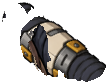
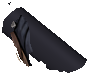
29 스카이 팔로메: 시트 2(네온 팔로메 것이었음, DHL 08:09) 윗팔 조각 뺌 — 스카이 시트 받으면 다시
Claude-Session: https://claude.ai/code/session_011WxNHak8EsK79yqEoeePC7

diff --git a/assets/rig/palome-sky/rig.def.js b/assets/rig/palome-sky/rig.def.js
@@ -1,3 +1,3 @@
 // 자동 생성: rig.json을 JS로 감싼 것. 원본은 같은 폴더의 rig.json (source/build_sky29.py)
 window.MR_RIG_DEFS=window.MR_RIG_DEFS||{};
-window.MR_RIG_DEFS['palome-sky']={"name": "palome-sky", "version": "f4b1b907", "units": "rig px (원화 512 ×2)", "refOrigin": [526.0, 956.0], "refScale": 1.0, "refLift": 0, "parts": {"torso": {"src": "parts/torso.png", "pivot": [140.0, 239.0], "scale": 2.0}, "skirt": {"src": "parts/skirt.png", "pivot": [140.0, 41.0], "scale": 2.0, "mesh": {"cols": 8, "rows": 6}}, "head": {"src": "parts/head.png", "pivot": [102.0, 138.0], "scale": 2.0}, "pauldron": {"src": "parts/pauldron.png", "pivot": [93.0, 89.0], "scale": 2.0}, "armU": {"src": "parts/armU.png", "pivot": [82.0, 18.0], "scale": 2.0, "elbow": [20.0, 79.0]}, "armL": {"src": "parts/armL.png", "pivot": [19.0, 27.0], "scale": 2.0, "fist": [105.4, 61.8]}, "armF": {"src": "parts/armF.png", "pivot": [28.0, 27.0], "scale": 2.0, "elbow": [90.0, 77.0]}, "foreF": {"src": "parts/foreF.png", "pivot": [50.0, 78.0], "scale": 2.0}, "fistF": {"src": "parts/fistF.png", "pivot": [36.0, 61.0], "scale": 2.0}, "pauldronF": {"src": "parts/pauldronF.png", "pivot": [10.0, 13.0], "scale": 2.0}, "cape": {"src": "parts/cape.png", "pivot": [87.0, 27.0], "scale": 2.0, "mesh": {"cols": 6, "rows": 7}}, "weapon": {"src": "parts/weapon.png", "pivot": [97.0, 847.0], "scale": 1.0, "tip": [107.9, 4.6], "tips": [[95.9, 24.6], [135.9, 24.6]], "guard": [107.6, 755.7], "pommel": [79.4, 997.7]}, "face_happy": {"src": "parts/face_happy.png", "pivot": [102.0, 138.0], "scale": 2.0}, "face_angry": {"src": "parts/face_angry.png", "pivot": [102.0, 138.0], "scale": 2.0}, "face_focus": {"src": "parts/face_focus.png", "pivot": [102.0, 138.0], "scale": 2.0}, "face_shout": {"src": "parts/face_shout.png", "pivot": [102.0, 138.0], "scale": 2.0}, "face_effort": {"src": "parts/face_effort.png", "pivot": [102.0, 138.0], "scale": 2.0}, "face_half": {"src": "parts/face_half.png", "pivot": [102.0, 138.0], "scale": 2.0}, "face_closed": {"src": "parts/face_closed.png", "pivot": [102.0, 138.0], "scale": 2.0}, "bootStandN": {"src": "parts/bootStandN.png", "pivot": [27.0, 25.0], "scale": 2.0}, "bootStandF": {"src": "parts/bootStandF.png", "pivot": [35.0, 23.0], "scale": 2.0}, "bootNRun": {"src": "parts/bootNRun.png", "pivot": [28.6, 41.0], "scale": 2.0}, "bootFRun": {"src": "parts/bootFRun.png", "pivot": [28.6, 42.0], "scale": 2.0}, "shinP": {"src": "parts/shinP.png", "pivot": [0, 0], "scale": 1}, "gF": {"src": "parts/fistF.png", "pivot": [36.0, 61.0], "grip": [38.0, 34.6], "elbow": [36.0, 61.0], "wrist": [36.0, 61.0], "scale": 2.0, "shaftDir": [-0.9215, -0.3885], "fore": "foreFa", "foreBone": "foreFb", "foreDir": [0.2075, 0.9782]}, "foreFa": {"src": "parts/foreF.png", "pivot": [36.0, 12.0], "elbow": [50.0, 78.0], "scale": 2.0}}, "bones": [{"name": "root", "parent": null, "pos": [0, 0]}, {"name": "hip", "parent": "root", "pos": [10.0, -172.0]}, {"name": "skirt", "parent": "hip", "pos": [0.0, 0.0], "part": "skirt"}, {"name": "torso", "parent": "hip", "pos": [0.0, 0.0], "part": "torso"}, {"name": "head", "parent": "torso", "pos": [28.0, -288.0], "part": "head"}, {"name": "armF", "parent": "torso", "pos": [188.0, -260.0], "part": "armF"}, {"name": "foreF", "parent": "armF", "pos": [124.0, 100.0], "part": "foreF"}, {"name": "fistF", "parent": "foreF", "pos": [-28.0, -132.0], "part": "fistF"}, {"name": "weapon", "parent": "fistF", "pos": [4.0, -52.7], "rot": -1.1718, "part": "weapon"}, {"name": "armU", "parent": "torso", "pos": [-216.0, -294.0], "part": "armU"}, {"name": "armL", "parent": "armU", "pos": [-124.0, 122.0], "rot": 0.3, "part": "armL"}, {"name": "pauldron", "parent": "torso", "pos": [-216.0, -294.0], "part": "pauldron"}, {"name": "cape", "parent": "torso", "pos": [-300.0, -184.0], "part": "cape"}, {"name": "scarf", "parent": "torso", "pos": [28.0, -288.0]}, {"name": "pouch", "parent": "hip", "pos": [0.0, 0.0]}, {"name": "pauldronF", "parent": "torso", "pos": [188.0, -260.0], "part": "pauldronF"}, {"name": "foreFb", "parent": "torso", "pos": [284.0, -292.0]}], "legs": {"hip": [0, 76.0], "thigh": 30.1, "shin": 30.1, "thighImg": {"part": "shinP", "a": [22, 0], "b": [22, 46], "w": 0.001}, "shinImg": {"part": "shinP", "a": [22, 0], "b": [22, 46], "w": 0.001}, "boot": {"part": "bootFRun", "sole": [[-26.6, 16.0], [-9.6, 17.0], [9.4, 19.0], [28.4, 20.0], [45.4, 17.0]], "ankleRange": [-1.7, 1.7]}, "tube": {"part": "shinP", "a": [22, 0], "b": [22, 46], "k": 1.8, "runBoot": true}, "near": {"x": -172.0, "shade": 0, "thighImg": {"part": "shinP", "a": [22, 0], "b": [22, 46], "w": 0.001}, "shinImg": {"part": "shinP", "a": [22, 0], "b": [22, 46], "w": 0.001}, "runBoot": "bootNRun", "stand": {"fade": [0.12, 0.4], "boot": {"part": "bootStandN", "sole": [[-24.0, 15.0], [-11.0, 19.0], [2.0, 20.0], [32.0, 17.0], [45.0, -10.0]]}}}, "far": {"x": 124.0, "shade": 0, "thighImg": {"part": "shinP", "a": [22, 0], "b": [22, 46], "w": 0.001}, "shinImg": {"part": "shinP", "a": [22, 0], "b": [22, 46], "w": 0.001}, "runBoot": "bootFRun", "stand": {"fade": [0.12, 0.4], "boot": {"part": "bootStandF", "sole": [[-31.0, -11.0], [-16.0, 17.0], [18.0, 20.0], [34.0, 19.0], [49.0, 17.0]]}}}}, "draw": ["cape", "legFar", "legNear", "torso", "skirt", "armF", "pauldronF", "foreF", "weapon", "armU", "pauldron", "head", "fistF", "armL"], "hidden": [], "faces": {"happy": "face_happy", "angry": "face_angry", "focus": "face_focus", "shout": "face_shout", "effort": "face_effort"}, "blinkFaces": {"half": "face_half", "closed": "face_closed"}, "idleStance": {"near": -12.0, "far": 2.0}, "gait": {"stance": 0.18, "strideBase": 14, "strideK": 0.06, "hipBase": 0, "bob": 6, "lean": 0.06, "waddle": 0.02, "headBob": 3, "kneeLift": 0.2, "heelKick": 0.03, "dropCap": 12, "swingReach": 0.05, "landAng": -0.04, "angK": 0.2, "elbowRun": 0.3, "foreRun": 0.3, "armSwing": 0.08, "armBias": 0.0, "headRun": 0.06}, "hemRun": {"lift": 8, "knee": 0.5, "heel": 0.3, "reach": 0.2}, "hemLimit": {"up": 0.25, "x": 0.3}, "hemGain": 0.15, "footReach": 0.97, "follow": [{"bone": "pauldron", "src": "armU", "k": 0.3}], "skirtFollow": 0.7, "carrySwing": 0.15, "wristRange": 0.2, "dropLift": 10, "bounce": [], "metrics": {"bodyHeight": 734, "note": "rig units; 머리카락 위(y111)~발바닥(478) ×2, 칼 제외"}, "ui": {"attack": "smash", "touch": "hop"}, "gameRef": {"refOrigin": [246.5, 478.0], "refScale": 2.0, "refLift": 0, "note": "게임 그림 char_0029.png(512) = 원화(md5 같음). x = 도감 칸(fitArt 중심 251.5, index.html measureBox 와 같은 계산)에서 골반(hip x 268)이 가운데 (9 팔로메와 같은 규칙)"}, "note": "29 스카이아크 팔로메 v1(대기·달리기·한 손 내려찍기). 9 러스트 팔로메 v1.1 구조(드워프 몸, 먼 팔이 칼을 어깨에 멤, 칼날 머리 뒤) + 망토. 조각 = 원화를 부품별로 나눔(seg29.py) + 가려진 곳만 시트·inpaint 로 메움", "swordGrip": {"tipDepth": 6, "near": {"upper": "armF", "carry": "gF", "pieces": []}, "far": {"upper": "armU", "pieces": ["armL"], "sPref": 0}, "stretchMax": 1.05, "shoulderPush": 0}, "drawA": ["cape", "legFar", "legNear", "torso", "skirt", "armF", "pauldronF", "foreFb", "weapon", "armU", "pauldron", "head", "foreF", "armL"], "drawStrike": ["cape", "legFar", "legNear", "torso", "skirt", "armF", "pauldronF", "foreFb", "armU", "pauldron", "head", "weapon", "foreF", "armL"], "actions": {"smash": {"kind": "sword", "rigid": true, "orderAlways": true, "dur": 0.9, "hitAt": 0.45, "hitStop": 0.07, "cancelAt": 0.66, "w": [[0, 1]], "reach": [[0, 0]], "nPiece": [[0, "gF"]], "nUpper": [[0, "armF"]], "armIK": [[0, 1]], "ikSideK": {"N": [[0, 1]]}, "gx": [[0.0, 288.0, "io"], [0.12, 272.2, "io"], [0.28, 248.8, "io"], [0.33, 286.2, "lin"], [0.355, 347.0, "lin"], [0.37, 356.4, "lin"], [0.385, 379.8, "lin"], [0.4, 389.2, "lin"], [0.415, 410.0, "lin"], [0.43, 380.0, "lin"], [0.45, 350.2, "io"], [0.6, 369.6, "io"], [0.65, 410.0, "lin"], [0.7, 379.8, "lin"], [0.75, 347.0, "io"], [0.8, 286.2, "io"], [0.86, 288.0, "io"]], "gy": [[0.0, -344.8, "io"], [0.12, -415.4, "io"], [0.28, -500.8, "io"], [0.33, -290.8, "lin"], [0.355, -217.2, "lin"], [0.37, -174.4, "lin"], [0.385, -134.4, "lin"], [0.4, -92.2, "lin"], [0.415, -48.0, "lin"], [0.43, 8.0, "lin"], [0.45, 60.4, "io"], [0.6, 61.8, "io"], [0.65, -48.0, "lin"], [0.7, -134.4, "lin"], [0.75, -217.2, "io"], [0.8, -290.8, "io"], [0.86, -344.8, "io"]], "sa": [[0.0, -2.7426, "io"], [0.12, -2.8449, "io"], [0.28, -3.0892, "io"], [0.33, -2.5656, "lin"], [0.355, -2.0944, "lin"], [0.37, -1.8326, "lin"], [0.385, -1.5708, "lin"], [0.4, -1.309, "lin"], [0.415, -1.0472, "lin"], [0.43, -0.7854, "lin"], [0.45, 0.096, "io"], [0.6, 0.096, "io"], [0.65, -1.0472, "lin"], [0.7, -1.5708, "lin"], [0.75, -2.0944, "io"], [0.8, -2.5656, "io"], [0.86, -2.7426, "io"]], "lean": [[0.0, 0.0, "io"], [0.12, -0.0698, "io"], [0.28, -0.1571, "io"], [0.33, 0.1047, "lin"], [0.355, 0.1745, "lin"], [0.37, 0.2269, "lin"], [0.385, 0.2443, "lin"], [0.4, 0.2443, "lin"], [0.415, 0.2443, "lin"], [0.43, 0.2443, "lin"], [0.45, 0.2443, "io"], [0.6, 0.2269, "io"], [0.65, 0.2443, "lin"], [0.7, 0.2443, "lin"], [0.75, 0.1745, "io"], [0.8, 0.1047, "io"], [0.86, 0.0, "io"]], "hipY": [[0.0, 0.0, "io"], [0.12, 8.0, "io"], [0.28, 0.0, "io"], [0.33, 12.0, "lin"], [0.355, 18.0, "lin"], [0.37, 22.0, "lin"], [0.385, 24.0, "lin"], [0.4, 24.0, "lin"], [0.415, 24.0, "lin"], [0.43, 24.0, "lin"], [0.45, 24.0, "io"], [0.6, 22.0, "io"], [0.65, 24.0, "lin"], [0.7, 24.0, "lin"], [0.75, 18.0, "io"], [0.8, 12.0, "io"], [0.86, 0.0, "io"]], "head": [[0, 0], [0.28, -0.06, "io"], [0.45, 0.05, "io"], [0.6, 0.04, "io"], [0.86, 0]], "freeArm": true, "fuA": [[0, 0], [0.28, -0.12, "io"], [0.45, 0.3, "o"], [0.6, 0.26, "io"], [0.86, 0]], "flA": [[0, 0], [0.28, -0.08, "io"], [0.45, 0.18, "o"], [0.6, 0.15, "io"], [0.86, 0]], "face": [[0, "angry"], [0.12, "effort"], [0.4, "shout"], [0.62, "focus"], [0.82, null]], "order": [[0, "drawA"], [0.375, "drawStrike"], [0.72, "drawA"]]}}, "cutHold": 0.25};
+window.MR_RIG_DEFS['palome-sky']={"name": "palome-sky", "version": "487c6b08", "units": "rig px (원화 512 ×2)", "refOrigin": [526.0, 956.0], "refScale": 1.0, "refLift": 0, "parts": {"torso": {"src": "parts/torso.png", "pivot": [140.0, 239.0], "scale": 2.0}, "skirt": {"src": "parts/skirt.png", "pivot": [140.0, 41.0], "scale": 2.0, "mesh": {"cols": 8, "rows": 6}}, "head": {"src": "parts/head.png", "pivot": [102.0, 138.0], "scale": 2.0}, "pauldron": {"src": "parts/pauldron.png", "pivot": [93.0, 89.0], "scale": 2.0}, "armU": {"src": "parts/armU.png", "pivot": [81.0, 21.0], "scale": 2.0, "elbow": [19.0, 82.0]}, "armL": {"src": "parts/armL.png", "pivot": [19.0, 27.0], "scale": 2.0, "fist": [105.4, 61.8]}, "armF": {"src": "parts/armF.png", "pivot": [10.0, 18.0], "scale": 2.0, "elbow": [72.0, 68.0]}, "foreF": {"src": "parts/foreF.png", "pivot": [50.0, 78.0], "scale": 2.0}, "fistF": {"src": "parts/fistF.png", "pivot": [36.0, 61.0], "scale": 2.0}, "pauldronF": {"src": "parts/pauldronF.png", "pivot": [10.0, 13.0], "scale": 2.0}, "cape": {"src": "parts/cape.png", "pivot": [87.0, 27.0], "scale": 2.0, "mesh": {"cols": 6, "rows": 7}}, "weapon": {"src": "parts/weapon.png", "pivot": [97.0, 847.0], "scale": 1.0, "tip": [107.9, 4.6], "tips": [[95.9, 24.6], [135.9, 24.6]], "guard": [107.6, 755.7], "pommel": [79.4, 997.7]}, "face_happy": {"src": "parts/face_happy.png", "pivot": [102.0, 138.0], "scale": 2.0}, "face_angry": {"src": "parts/face_angry.png", "pivot": [102.0, 138.0], "scale": 2.0}, "face_focus": {"src": "parts/face_focus.png", "pivot": [102.0, 138.0], "scale": 2.0}, "face_shout": {"src": "parts/face_shout.png", "pivot": [102.0, 138.0], "scale": 2.0}, "face_effort": {"src": "parts/face_effort.png", "pivot": [102.0, 138.0], "scale": 2.0}, "face_half": {"src": "parts/face_half.png", "pivot": [102.0, 138.0], "scale": 2.0}, "face_closed": {"src": "parts/face_closed.png", "pivot": [102.0, 138.0], "scale": 2.0}, "bootStandN": {"src": "parts/bootStandN.png", "pivot": [27.0, 25.0], "scale": 2.0}, "bootStandF": {"src": "parts/bootStandF.png", "pivot": [35.0, 23.0], "scale": 2.0}, "bootNRun": {"src": "parts/bootNRun.png", "pivot": [28.6, 41.0], "scale": 2.0}, "bootFRun": {"src": "parts/bootFRun.png", "pivot": [28.6, 42.0], "scale": 2.0}, "shinP": {"src": "parts/shinP.png", "pivot": [0, 0], "scale": 1}, "gF": {"src": "parts/fistF.png", "pivot": [36.0, 61.0], "grip": [38.0, 34.6], "elbow": [36.0, 61.0], "wrist": [36.0, 61.0], "scale": 2.0, "shaftDir": [-0.9215, -0.3885], "fore": "foreFa", "foreBone": "foreFb", "foreDir": [0.2075, 0.9782]}, "foreFa": {"src": "parts/foreF.png", "pivot": [36.0, 12.0], "elbow": [50.0, 78.0], "scale": 2.0}}, "bones": [{"name": "root", "parent": null, "pos": [0, 0]}, {"name": "hip", "parent": "root", "pos": [10.0, -172.0]}, {"name": "skirt", "parent": "hip", "pos": [0.0, 0.0], "part": "skirt"}, {"name": "torso", "parent": "hip", "pos": [0.0, 0.0], "part": "torso"}, {"name": "head", "parent": "torso", "pos": [28.0, -288.0], "part": "head"}, {"name": "armF", "parent": "torso", "pos": [188.0, -260.0], "part": "armF"}, {"name": "foreF", "parent": "armF", "pos": [124.0, 100.0], "part": "foreF"}, {"name": "fistF", "parent": "foreF", "pos": [-28.0, -132.0], "part": "fistF"}, {"name": "weapon", "parent": "fistF", "pos": [4.0, -52.7], "rot": -1.1718, "part": "weapon"}, {"name": "armU", "parent": "torso", "pos": [-216.0, -294.0], "part": "armU"}, {"name": "armL", "parent": "armU", "pos": [-124.0, 122.0], "rot": 0.3, "part": "armL"}, {"name": "pauldron", "parent": "torso", "pos": [-216.0, -294.0], "part": "pauldron"}, {"name": "cape", "parent": "torso", "pos": [-300.0, -184.0], "part": "cape"}, {"name": "scarf", "parent": "torso", "pos": [28.0, -288.0]}, {"name": "pouch", "parent": "hip", "pos": [0.0, 0.0]}, {"name": "pauldronF", "parent": "torso", "pos": [188.0, -260.0], "part": "pauldronF"}, {"name": "foreFb", "parent": "torso", "pos": [284.0, -292.0]}], "legs": {"hip": [0, 76.0], "thigh": 30.1, "shin": 30.1, "thighImg": {"part": "shinP", "a": [22, 0], "b": [22, 46], "w": 0.001}, "shinImg": {"part": "shinP", "a": [22, 0], "b": [22, 46], "w": 0.001}, "boot": {"part": "bootFRun", "sole": [[-26.6, 16.0], [-9.6, 17.0], [9.4, 19.0], [28.4, 20.0], [45.4, 17.0]], "ankleRange": [-1.7, 1.7]}, "tube": {"part": "shinP", "a": [22, 0], "b": [22, 46], "k": 1.8, "runBoot": true}, "near": {"x": -172.0, "shade": 0, "thighImg": {"part": "shinP", "a": [22, 0], "b": [22, 46], "w": 0.001}, "shinImg": {"part": "shinP", "a": [22, 0], "b": [22, 46], "w": 0.001}, "runBoot": "bootNRun", "stand": {"fade": [0.12, 0.4], "boot": {"part": "bootStandN", "sole": [[-24.0, 15.0], [-11.0, 19.0], [2.0, 20.0], [32.0, 17.0], [45.0, -10.0]]}}}, "far": {"x": 124.0, "shade": 0, "thighImg": {"part": "shinP", "a": [22, 0], "b": [22, 46], "w": 0.001}, "shinImg": {"part": "shinP", "a": [22, 0], "b": [22, 46], "w": 0.001}, "runBoot": "bootFRun", "stand": {"fade": [0.12, 0.4], "boot": {"part": "bootStandF", "sole": [[-31.0, -11.0], [-16.0, 17.0], [18.0, 20.0], [34.0, 19.0], [49.0, 17.0]]}}}}, "draw": ["cape", "legFar", "legNear", "torso", "skirt", "armF", "pauldronF", "foreF", "weapon", "armU", "pauldron", "head", "fistF", "armL"], "hidden": [], "faces": {"happy": "face_happy", "angry": "face_angry", "focus": "face_focus", "shout": "face_shout", "effort": "face_effort"}, "blinkFaces": {"half": "face_half", "closed": "face_closed"}, "idleStance": {"near": -12.0, "far": 2.0}, "gait": {"stance": 0.18, "strideBase": 14, "strideK": 0.06, "hipBase": 0, "bob": 6, "lean": 0.06, "waddle": 0.02, "headBob": 3, "kneeLift": 0.2, "heelKick": 0.03, "dropCap": 12, "swingReach": 0.05, "landAng": -0.04, "angK": 0.2, "elbowRun": 0.3, "foreRun": 0.3, "armSwing": 0.08, "armBias": 0.0, "headRun": 0.06}, "hemRun": {"lift": 8, "knee": 0.5, "heel": 0.3, "reach": 0.2}, "hemLimit": {"up": 0.25, "x": 0.3}, "hemGain": 0.15, "footReach": 0.97, "follow": [{"bone": "pauldron", "src": "armU", "k": 0.3}], "skirtFollow": 0.7, "carrySwing": 0.15, "wristRange": 0.2, "dropLift": 10, "bounce": [], "metrics": {"bodyHeight": 734, "note": "rig units; 머리카락 위(y111)~발바닥(478) ×2, 칼 제외"}, "ui": {"attack": "smash", "touch": "hop"}, "gameRef": {"refOrigin": [246.5, 478.0], "refScale": 2.0, "refLift": 0, "note": "게임 그림 char_0029.png(512) = 원화(md5 같음). x = 도감 칸(fitArt 중심 251.5, index.html measureBox 와 같은 계산)에서 골반(hip x 268)이 가운데 (9 팔로메와 같은 규칙)"}, "note": "29 스카이아크 팔로메 v1(대기·달리기·한 손 내려찍기). 9 러스트 팔로메 v1.1 구조(드워프 몸, 먼 팔이 칼을 어깨에 멤, 칼날 머리 뒤) + 망토. 조각 = 원화를 부품별로 나눔(seg29.py) + 가려진 곳만 시트·inpaint 로 메움", "swordGrip": {"tipDepth": 6, "near": {"upper": "armF", "carry": "gF", "pieces": []}, "far": {"upper": "armU", "pieces": ["armL"], "sPref": 0}, "stretchMax": 1.05, "shoulderPush": 0}, "drawA": ["cape", "legFar", "legNear", "torso", "skirt", "armF", "pauldronF", "foreFb", "weapon", "armU", "pauldron", "head", "foreF", "armL"], "drawStrike": ["cape", "legFar", "legNear", "torso", "skirt", "armF", "pauldronF", "foreFb", "armU", "pauldron", "head", "weapon", "foreF", "armL"], "actions": {"smash": {"kind": "sword", "rigid": true, "orderAlways": true, "dur": 0.9, "hitAt": 0.45, "hitStop": 0.07, "cancelAt": 0.66, "w": [[0, 1]], "reach": [[0, 0]], "nPiece": [[0, "gF"]], "nUpper": [[0, "armF"]], "armIK": [[0, 1]], "ikSideK": {"N": [[0, 1]]}, "gx": [[0.0, 288.0, "io"], [0.12, 272.2, "io"], [0.28, 248.8, "io"], [0.33, 286.2, "lin"], [0.355, 347.0, "lin"], [0.37, 356.4, "lin"], [0.385, 379.8, "lin"], [0.4, 389.2, "lin"], [0.415, 410.0, "lin"], [0.43, 380.0, "lin"], [0.45, 350.2, "io"], [0.6, 369.6, "io"], [0.65, 410.0, "lin"], [0.7, 379.8, "lin"], [0.75, 347.0, "io"], [0.8, 286.2, "io"], [0.86, 288.0, "io"]], "gy": [[0.0, -344.8, "io"], [0.12, -415.4, "io"], [0.28, -500.8, "io"], [0.33, -290.8, "lin"], [0.355, -217.2, "lin"], [0.37, -174.4, "lin"], [0.385, -134.4, "lin"], [0.4, -92.2, "lin"], [0.415, -48.0, "lin"], [0.43, 8.0, "lin"], [0.45, 60.4, "io"], [0.6, 61.8, "io"], [0.65, -48.0, "lin"], [0.7, -134.4, "lin"], [0.75, -217.2, "io"], [0.8, -290.8, "io"], [0.86, -344.8, "io"]], "sa": [[0.0, -2.7426, "io"], [0.12, -2.8449, "io"], [0.28, -3.0892, "io"], [0.33, -2.5656, "lin"], [0.355, -2.0944, "lin"], [0.37, -1.8326, "lin"], [0.385, -1.5708, "lin"], [0.4, -1.309, "lin"], [0.415, -1.0472, "lin"], [0.43, -0.7854, "lin"], [0.45, 0.096, "io"], [0.6, 0.096, "io"], [0.65, -1.0472, "lin"], [0.7, -1.5708, "lin"], [0.75, -2.0944, "io"], [0.8, -2.5656, "io"], [0.86, -2.7426, "io"]], "lean": [[0.0, 0.0, "io"], [0.12, -0.0698, "io"], [0.28, -0.1571, "io"], [0.33, 0.1047, "lin"], [0.355, 0.1745, "lin"], [0.37, 0.2269, "lin"], [0.385, 0.2443, "lin"], [0.4, 0.2443, "lin"], [0.415, 0.2443, "lin"], [0.43, 0.2443, "lin"], [0.45, 0.2443, "io"], [0.6, 0.2269, "io"], [0.65, 0.2443, "lin"], [0.7, 0.2443, "lin"], [0.75, 0.1745, "io"], [0.8, 0.1047, "io"], [0.86, 0.0, "io"]], "hipY": [[0.0, 0.0, "io"], [0.12, 8.0, "io"], [0.28, 0.0, "io"], [0.33, 12.0, "lin"], [0.355, 18.0, "lin"], [0.37, 22.0, "lin"], [0.385, 24.0, "lin"], [0.4, 24.0, "lin"], [0.415, 24.0, "lin"], [0.43, 24.0, "lin"], [0.45, 24.0, "io"], [0.6, 22.0, "io"], [0.65, 24.0, "lin"], [0.7, 24.0, "lin"], [0.75, 18.0, "io"], [0.8, 12.0, "io"], [0.86, 0.0, "io"]], "head": [[0, 0], [0.28, -0.06, "io"], [0.45, 0.05, "io"], [0.6, 0.04, "io"], [0.86, 0]], "freeArm": true, "fuA": [[0, 0], [0.28, -0.12, "io"], [0.45, 0.3, "o"], [0.6, 0.26, "io"], [0.86, 0]], "flA": [[0, 0], [0.28, -0.08, "io"], [0.45, 0.18, "o"], [0.6, 0.15, "io"], [0.86, 0]], "face": [[0, "angry"], [0.12, "effort"], [0.4, "shout"], [0.62, "focus"], [0.82, null]], "order": [[0, "drawA"], [0.375, "drawStrike"], [0.72, "drawA"]]}}, "cutHold": 0.25};

diff --git a/assets/rig/palome-sky/source/build_sky29.py b/assets/rig/palome-sky/source/build_sky29.py
@@ -115,12 +115,12 @@ _nv = lab('upperN') & (np.abs(RA[..., :3].astype(int) - NAVY).max(-1) < 60)   # 
 def arm_piece(nm, top, bot, SH, EL):   # 시트 2 윗팔 조각을 늘이지 않고(배율 1) 아래 둥근 끝 가운데 = 팔꿈치, 위쪽 = 어깨 방향으로 놓음 (10-20 DHL '늘어나는 것 없이 보이는 리소스로')
     a0, a1 = np.array(bot, float), np.array(top, float); u = (np.array(SH, float) - np.array(EL, float)); u /= np.linalg.norm(u)
     return warp(desp(np.array(Image.open(os.path.join(PC, f'p2_{nm}.png')).convert('RGBA'))), simil(a0, a1, EL, np.array(EL, float) + u * np.linalg.norm(a1 - a0)))
-uw = arm_piece('upperN2', (22, 19), (22, 101), SH_N, EL_N)   # 가까운 윗팔(시트 2 4번): 둥근 끝 사이 82(원화 87) — 위 끝은 큰 어깨갑 밑
+uw = sleeve(SH_N, EL_N + (EL_N - SH_N) / np.linalg.norm(EL_N - SH_N) * 6, 19)   # 가까운 윗팔: 남색 관(임시) — 10-20 08:09 시트 2 는 네온 팔로메 시트였음(DHL) → 스카이 시트 오면 arm_piece 로
 o_aU = save('armU', under(art(_nv | (lab('upperN') & (RA[..., :3].mean(-1) < 45))), uw, lab('pauldron') | lab('foreN') | lab('upperN')))
 # 가까운 팔뚝+주먹(토시 + 쇠 장갑 주먹, 원화 그대로 — 맨 앞)
 o_aL = save('armL', art(lab('foreN')))
 # 먼 윗팔(남색 소매): 원화 보이는 곳 + 앞 조각(몸 어깨판·토시·칼) 밑은 시트 먼 윗팔(어깨 → 팔꿈치), 색 = 원화 먼 소매 × .9
-ufw = arm_piece('upperF2', (26, 19), (26, 108), SH_F, EL_F)   # 먼 윗팔(시트 2 2번): 둥근 끝 사이 89(원화 80, 위 끝은 몸 띠 밑) · 아래 열린 소매 끝은 토시 밑
+ufw = sleeve(SH_F, EL_F + (EL_F - SH_F) / np.linalg.norm(EL_F - SH_F) * 6, 16, NAVY * 0.9)   # 먼 윗팔: 남색 관(임시) — 스카이 시트 오면 arm_piece 로
 # 먼 어깨 덮개(pauldronF 뼈, 몸통에 붙음): 먼 소매 둘레의 몸 그림(가죽 띠·크림 판)을 먼 윗팔 위에 한 번 더 — 대기 = 원화, 팔이 돌면 소매가 띠 밑으로 들어감
 huF = np.zeros((512, 512), np.uint8); cv2.fillConvexPoly(huF, cv2.convexHull(np.argwhere(lab('upperF'))[:, ::-1].astype(np.int32)), 1)
 huF = dil(huF > 0, 8)

diff --git a/assets/rig/palome-sky/source/cut29b.py b/assets/rig/palome-sky/source/cut29b.py
@@ -1,6 +1,5 @@
 # 29 스카이 팔로메 추가 조각 시트 2(4칸, 3072×1024, 10-20 07:57) 자르기 → pieces/p2_<이름>.png
-#   검수: 1번 = 첨부 1 과 다른 자세·다른 디자인(두 손 세운 칼, 어두운 갑옷) → 불합격 · 2번 먼 윗팔 합격(길이 둥근 끝 빼고 약 80 = 원화 어깨~팔꿈치, 아래 끝은 열린 소매 — 토시 밑에 숨김)
-#   3번 먼 어깨 = 작은 판 조각(요청과 다름) → 불합격 · 4번 가까운 윗팔 = 남색 소매(둥근 끝 빼고 약 74, 원화 87 의 0.85 — 위 끝이 큰 어깨갑 밑이라 늘이지 않고 씀)
+#   (10-20 08:09 DHL: 07:57 시트는 네온 팔로메 것 — 스카이 시트 받으면 다시 검수)
 import os, sys, numpy as np
 from PIL import Image
 HERE = os.path.dirname(os.path.abspath(__file__)); sys.path.insert(0, os.path.join(HERE, '..', '..', 'carden-rust', 'source'))

diff --git a/assets/rig/palome-sky/STATUS.md b/assets/rig/palome-sky/STATUS.md
@@ -28,3 +28,7 @@
 - 몸 오른쪽 위 메움(flat_fill)이 몸 껍질을 따라 칼 쪽까지 남색 삼각형으로 부풀었음 → 어깨 윤곽 SHOULDER_R 안만, 시트 상체 메움도 그 안만
 - 시도했다 되돌림: 날밑~폼멜을 시트 칼로 바꾸기(대기 날밑이 원화와 달라짐 — 시트 날밑은 비스듬히 본 각도가 다름), 시트 칼 모양을 틀로 원화 날밑 다듬기(두 날밑이 어긋나 겹침)
 - 남은 것: 칼을 들면 수염 오른쪽 먼 어깨 판 가장자리·날밑 왼쪽 아래 찢긴 조각 → 프롬프트 3(먼 어깨 · 날밑, 첨부 refs/ref_C_shoulder_guard.png)
+
+## 08:10 (10-20) v1.2 윗팔 되돌림 — DHL 08:09 '쏘리, 네온을 전달했음, 지금 요청 스카이로 보낼게요'
+- 07:57 시트 2 는 네온 팔로메(19) 것 → 29 에 넣은 윗팔 2조각 뺌(다른 캐릭터 그림), 남색 관(임시)으로 되돌림. 시트 파일·조각 지움. 어깨 윤곽(SHOULDER_R) 고침은 그대로
+- 스카이 시트(프롬프트 2) 오면 cut29b.py → arm_piece 로 다시
